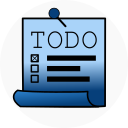
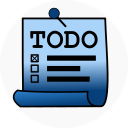
changed navbar, footer, added login page with dummy sign in button, started user management page.

Changed region(s): [[0.2188, 0.2188, 0.7812, 0.375], [0.2188, 0.1562, 0.875, 0.8438], [0.25, 0.4375, 0.3125, 0.5]]

diff --git a/todo-app/src/app/todo-app-mainpage/todo-app-mainpage.component.html b/todo-app/src/app/todo-app-mainpage/todo-app-mainpage.component.html
@@ -1,37 +1,41 @@
 <div>
-  <div class="toolbar" role="banner">
-    <div class="grid-item1">
-      <a routerLink="/app/today"><img alt="TODO App Logo"  src="./assets/todoapp_256.png"/><b style="padding-left: 10px;">TODO App</b></a>
-    </div>
-    <div class="todolist grid-item2">
-      <a routerLink="/app/todos"><fa-icon [icon]="'list'"></fa-icon> TODOLists</a>
-    </div>
-    <div class="users grid-item3">
-      <a routerLink="/app/users"><fa-icon [icon]="'users'"></fa-icon> Users</a>
-    </div>
-    <div class="logout grid-item4">
-      <div ngbDropdown >
-        <button class="btn btn-light" ngbDropdownToggle>Profilbild</button>
-        <div ngbDropdownMenu>
-          <button ngbDropdownItem> <fa-icon [icon]="'cog'"></fa-icon> <a routerLink="/app/settings" class="text-secondary"> Settings</a></button>
-          <button ngbDropdownItem><fa-icon [icon]="'sign-out-alt'"></fa-icon> <a routerLink="/login" class="text-secondary"> Logout</a></button>
+  <div class="container mt-2">
+    <div class="toolbar" role="banner">
+      <div class="grid-item1">
+        <a routerLink="/app/today"><img alt="TODO App Logo"  src="./assets/todoapp_128.png"/><b style="padding-left: 10px;">TODO App</b></a>
+      </div>
+      <div class="todolist grid-item2">
+        <a routerLink="/app/todos"><fa-icon [icon]="'list'"></fa-icon> TODOLists</a>
+      </div>
+      <div class="users grid-item3">
+        <a routerLink="/app/users"><fa-icon [icon]="'users'"></fa-icon> Users</a>
+      </div>
+      <div class="logout grid-item4">
+        <div ngbDropdown >
+          <a class="btn" ngbDropdownToggle><img alt="profile picture"  src="./assets/todoapp_128.png"/> </a>
+          <div ngbDropdownMenu>
+            <button ngbDropdownItem> <fa-icon [icon]="'cog'"></fa-icon> <a routerLink="/app/settings" class="text-secondary"> Settings</a></button>
+            <button ngbDropdownItem><fa-icon [icon]="'sign-out-alt'"></fa-icon> <a routerLink="/login" class="text-secondary"> Logout</a></button>
+          </div>
         </div>
       </div>
     </div>
-  </div>
+
   <router-outlet></router-outlet>
-  <div class="footer bg-light" role="footer">
+
+  <div class="footer" role="footer">
     <div class="copyright">
-      <div><fa-icon [icon]="'copyright'"></fa-icon> 2021 Annika Fuhge</div>
+      <div><fa-icon [icon]="'copyright'"></fa-icon> 2021 Annika Fuhge. All rights reserved. </div>
     </div>
-    <div class="imprint_policy">
-      <div>
-        <a routerLink="/app/imprint">Imprint</a>
+    <div class="imprint_policy flex flex-justify-center">
+      <div imprint>
+        <a routerLink="/app/imprint">Imprint </a>
       </div>
       <div class="policy ">
         <a routerLink="/app/policy" >Policy</a>
       </div>
     </div>
+  </div>
   </div>
 </div>
 

diff --git a/todo-app/src/app/todo-app-mainpage/todo-app-mainpage.component.css b/todo-app/src/app/todo-app-mainpage/todo-app-mainpage.component.css
@@ -5,7 +5,6 @@ img {
 }
 
 .toolbar {
-  position: absolute;
   top: 0;
   left: 0;
   right: 0;
@@ -17,7 +16,15 @@ img {
   font-weight: 600;
   align-items: center;
   border-bottom: 2px solid #085caf;
+  box-shadow: 0px 4px 10px rgba(0,0,0,0.2);
+  border-radius: 10px;
 
+
+}
+
+.logout img {
+  width:50%;
+  border-radius: 50%;
 }
 
 .footer {
@@ -25,29 +32,47 @@ img {
   bottom: 0;
   left: 0;
   right: 0;
-  height: 45px;
-  display: grid;
-  font-weight: 600;
-  border-top:1px solid;
+  height: 40px;
+  font-size: 14px;
   align-items: center;
   color: #a2a9ae;
-  grid-template-columns: 400px auto 400px;
-  grid-gap: 10px;
+  display:flex;
+  background-color: #06427d;
 
+}
+
+.logout button:active{
+  background-color: #8fb2d6;
+}
+
+.logout button a:active {
+  background-color: #8fb2d6;
 }
 
 .copyright {
   padding-left: 20px;
-  grid-column: 1;
+  flex-direction: row;
+  width:60%;
+  font-size: 12px;
 }
  .imprint_policy {
-   grid-column:2;
-   display: grid;
-   grid-template-columns: auto auto;
-   align-items: center;
-   text-align: center;
+   display:grid;
+   grid-template-columns: 100px 100px;
  }
 
+ .imprint_policy a:hover{
+   color: white;
+ }
+
+ .policy {
+   grid-column: 2;
+ }
+
+ .imprint {
+   grid-column: 1;
+ }
+
+.bar { font-size: 20px; }
 
 .footer  a {
   color: #a2a9ae;

diff --git a/todo-app/src/app/users/users.component.html b/todo-app/src/app/users/users.component.html
@@ -1,1 +1,44 @@
-<p style="margin-top: 100px;">users works!</p>
+<div class="container">
+  <h2>User Management</h2>
+
+  <div class=" card table-container">
+    <div class="card-body">
+      <div>All(#users)</div>
+      <table class="table table-bordered" >
+        <thead class=" table-header">
+        <tr>
+          <th scope="col">#</th>
+          <th scope="col">First name</th>
+          <th scope="col">Last name</th>
+          <th scope="col">Color</th>
+          <th scope="col">Actions</th>
+        </tr>
+        </thead>
+        <tbody>
+        <tr>
+          <th scope="row">1</th>
+          <td>Mark</td>
+          <td>Otto</td>
+          <td>green</td>
+          <td>todo: buttons</td>
+        </tr>
+        <tr>
+          <th scope="row">2</th>
+          <td>Jacob</td>
+          <td>Blah</td>
+          <td>green</td>
+          <td>todo: buttons</td>
+        </tr>
+        <tr>
+          <th scope="row">3</th>
+          <td>Larry the Bird</td>
+          <td>xxx</td>
+          <td>green</td>
+          <td>todo: buttons</td>
+        </tr>
+        </tbody>
+      </table>
+    </div>
+  </div>
+
+</div>

diff --git a/todo-app/src/app/app.module.ts b/todo-app/src/app/app.module.ts
@@ -10,7 +10,7 @@ import { UsersComponent } from './users/users.component';
 import {NgbDropdownModule, NgbModule} from '@ng-bootstrap/ng-bootstrap';
 import {FaConfig, FaIconLibrary, FontAwesomeModule} from '@fortawesome/angular-fontawesome';
 
-import {faCoffee, faCog, faSignOutAlt, faUsers, faList, faCopyright, faUndoAlt} from '@fortawesome/free-solid-svg-icons';
+import {faCoffee, faCog, faSignOutAlt, faUsers, faList, faCopyright, faUndoAlt, faSignInAlt} from '@fortawesome/free-solid-svg-icons';
 import { SettingsComponent } from './settings/settings.component';
 import {RouterModule} from '@angular/router';
 import { PageNotFoundComponent } from './page-not-found/page-not-found.component';
@@ -44,7 +44,7 @@ import { PolicyComponent } from './policy/policy.component';
 export class AppModule {
 
   constructor(fa: FaIconLibrary) {
-    fa.addIcons(faCoffee, faCog, faSignOutAlt, faUsers, faList, faCopyright, faUndoAlt);
+    fa.addIcons(faCoffee, faCog, faSignOutAlt, faUsers, faList, faCopyright, faUndoAlt, faSignInAlt);
   }
 
 

diff --git a/todo-app/src/app/login/login.component.html b/todo-app/src/app/login/login.component.html
@@ -1,1 +1,27 @@
-<p >login works!</p>
+
+<div class="container">
+  <div class="container m-4 " >
+    <div class="card">
+      <div class="card-header">
+        Login
+      </div>
+      <div class="card-body">
+        <form>
+          <div class="form-group">
+            <label for="inputEmail">Email</label>
+            <input type="email" class="form-control" id="inputEmail" placeholder="Email">
+          </div>
+          <div class="form-group">
+            <label for="inputPassword">Password</label>
+            <input type="password" class="form-control" id="inputPassword" placeholder="Password">
+          </div>
+          <div class="form-group">
+            <label class="form-check-label"><input type="checkbox"> Remember me</label>
+          </div>
+          <a routerLink="/app" class="btn sign-in "><fa-icon [icon]="'sign-in-alt'" class="text-white"></fa-icon> <div style="display:flex; margin:auto; text-align: center;">Sign in</div></a>
+        </form>
+      </div>
+    </div>
+  </div>
+
+</div>

diff --git a/todo-app/src/app/login/login.component.css b/todo-app/src/app/login/login.component.css
@@ -1,0 +1,30 @@
+.card-header {
+  background-color: #06427d;
+  color:white;
+  border-top-left-radius: 10px;
+  border-top-right-radius: 10px;
+}
+.card-body{
+  background-color: #f3f3f3;
+  border-bottom-left-radius: 10px;
+  border-bottom-right-radius: 10px;
+
+}
+
+.card {
+  border-radius: 10px;
+  box-shadow: 0px 4px 10px rgba(0,0,0,0.2);
+}
+
+.sign-in {
+  background-color: #06427d;
+  color:white;
+  box-shadow: 0 4px 8px 0 rgba(0,0,0,0.2);
+  font-size: 14px;
+  text-align: center;
+  display: flex;
+  width:15%;
+
+}
+
+

diff --git a/todo-app/src/app/users/users.component.css b/todo-app/src/app/users/users.component.css
@@ -1,0 +1,27 @@
+.table-container {
+  background-color: white;
+}
+tbody tr:hover{
+  background-color: #8fb2d6;
+}
+
+.table-header{
+  background-color: #06427d;
+color:white;
+}
+
+table {
+  box-shadow:4px 4px 10px rgba(0,0,0,0.2);
+}
+
+
+.card-body{
+  background-color: #f3f3f3;
+  border-radius:10px;
+
+}
+
+.card {
+  border-radius: 10px;
+  box-shadow: 0px 4px 10px rgba(0,0,0,0.2);
+}

diff --git a/todo-app/src/styles.css b/todo-app/src/styles.css
@@ -9,5 +9,11 @@
 }
 
 body {
-  background-color: #dae0e5;
+ /* background-color: #dae0e5;*/
+  background: rgb(15,71,126);
+  background: linear-gradient(0deg, rgba(15,71,126,1) 0%, rgba(218,224,229,1) 90%);
+  height: 100%;
+  margin: 0;
+  background-repeat: no-repeat;
+  background-attachment: fixed;
 }
